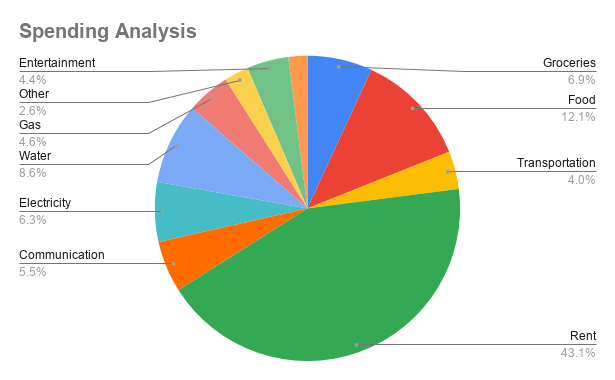
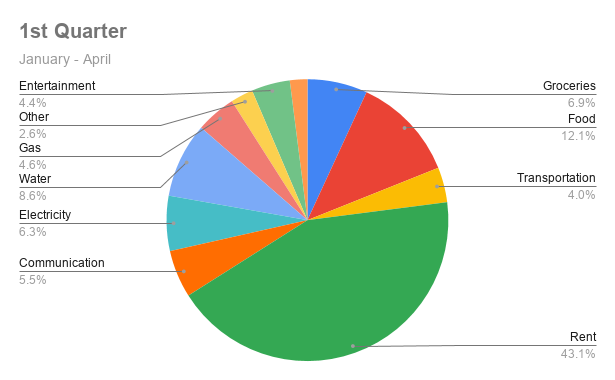
update analytics

diff --git a/SourceCode_and_Documentation/Analytics.html b/SourceCode_and_Documentation/Analytics.html
@@ -22,14 +22,66 @@
             <ion-icon name="notifications-outline" size="large"></ion-icon>
         </div>
         <div class="col-md-2">
-            <ion-icon name="close-outline" size="large"></ion-icon>
+            <ion-icon name="log-in-outline" size="large"></ion-icon>
         </div>
         </div>
-
-        <div class="container">
-            <div class="text-center">
-                <img class="img-fluid" src="Spending_Analysis.png" alt="Responsive image" >
+        
+        <div class="row">
+            <div class="column">
+              <img src="Spending_Analysis.png" alt="Responsive image">
+            </div>
+            <div class="column">
+                <img src="Yearly_Analysis.png" alt="Responsive image">
             </div>
         </div>
+        <br>
+        <br>
+        <div class="row">
+            <div class="col-md-1">
+                <ion-icon name="basket-outline" size="large"></ion-icon>
+                <p>Groceries</p>
+                <p>$120</p>
+            </div>
+            <div class="col-md-1">
+                <ion-icon name="fast-food-outline" size="large"></ion-icon>
+                <p>Food</p>
+                <p>$210</p>
+            </div>
+            <div class="col-md-1">
+                <ion-icon name="bus-outline" size="large"></ion-icon>
+                <p>Transportation</p>
+                <p>$70</p>
+            </div>
+            <div class="col-md-1">
+                <ion-icon name="home-outline" size="large"></ion-icon>
+                <p>Rent</p>
+                <p>$750</p>
+            </div>
+            <div class="col-md-1">
+                <ion-icon name="call-outline" size="large"></ion-icon>
+                <p>Communication</p>
+                <p>$95</p>
+            </div>
+            <div class="col-md-1">
+                <ion-icon name="flash-outline" size="large"></ion-icon>
+                <p>Electricity</p>
+                <p>$110</p>
+            </div>
+            <div class="col-md-1">
+                <ion-icon name="water-outline" size="large"></ion-icon>
+                <p>Water</p>
+                <p>$150</p>
+            </div>
+            <div class="col-md-1">
+                <ion-icon name="flame-outline" size="large"></ion-icon>
+                <p>Gas</p>
+                <p>$80</p>
+            </div>
+            <div class="col-md-1">
+                <ion-icon name="game-controller-outline" size="large"></ion-icon>
+                <p>Entertainment</p>
+                <p>$77</p>
+            </div>
+          
     </body>
 </html>
